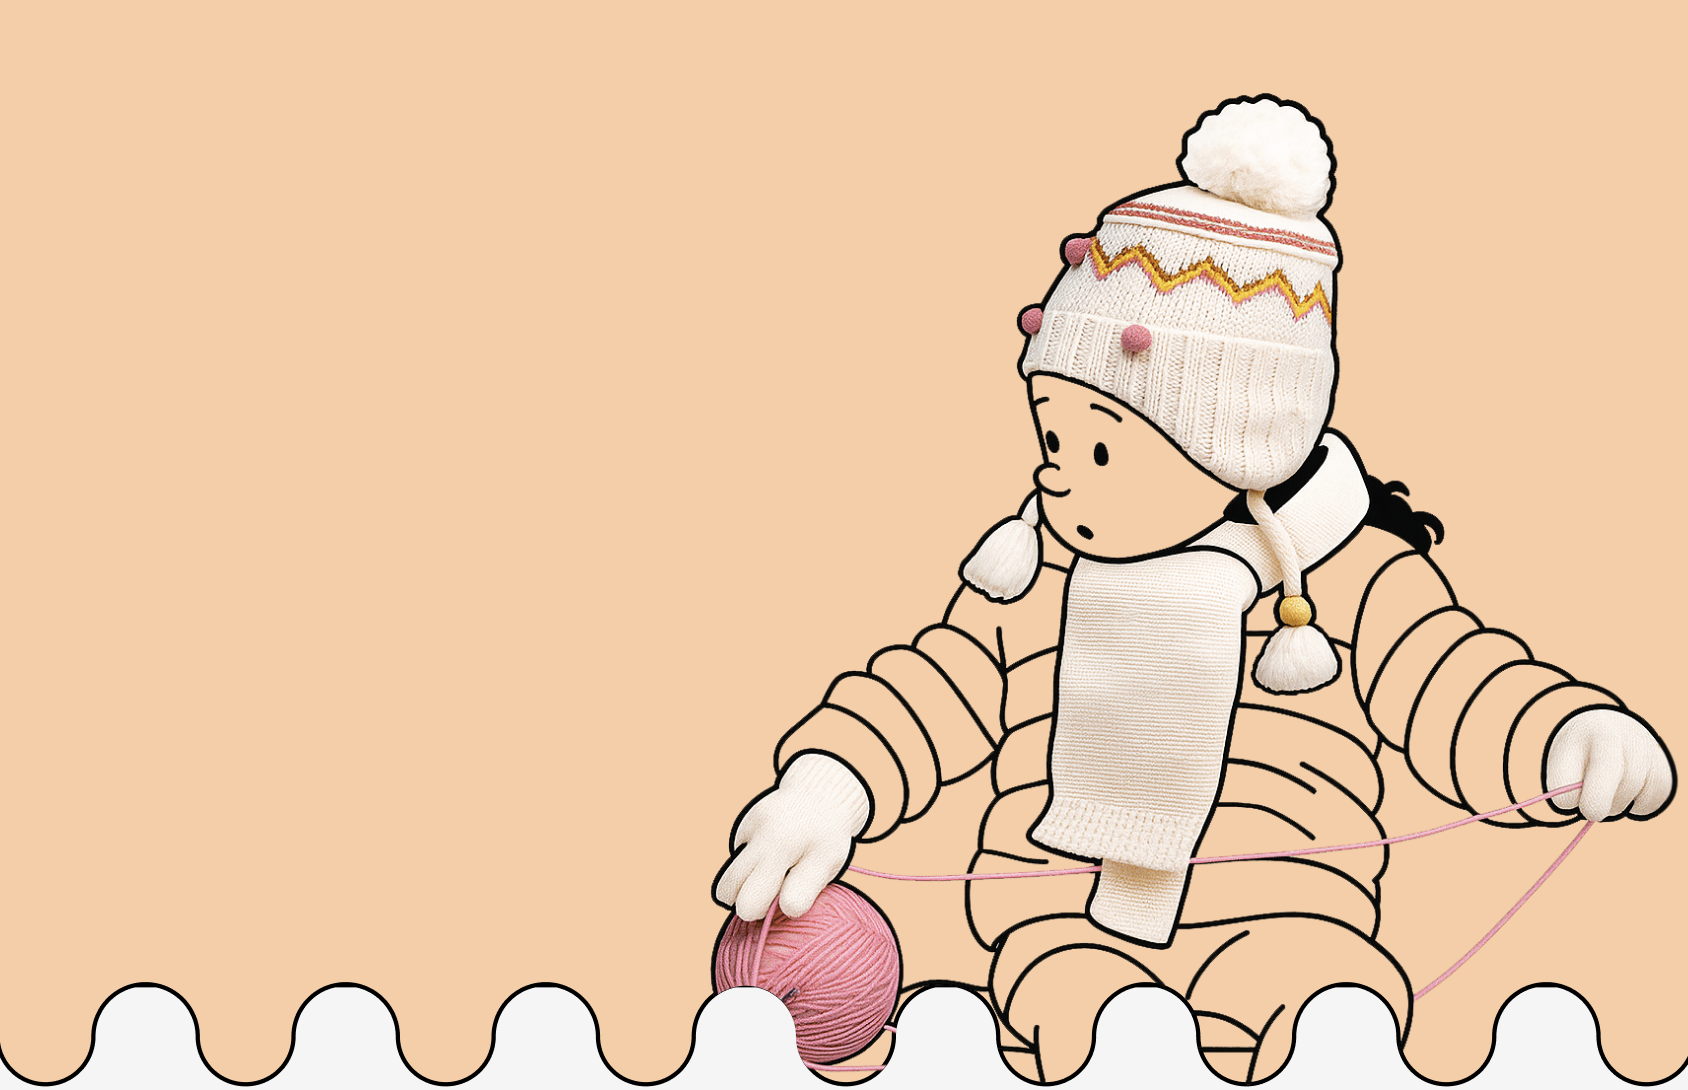
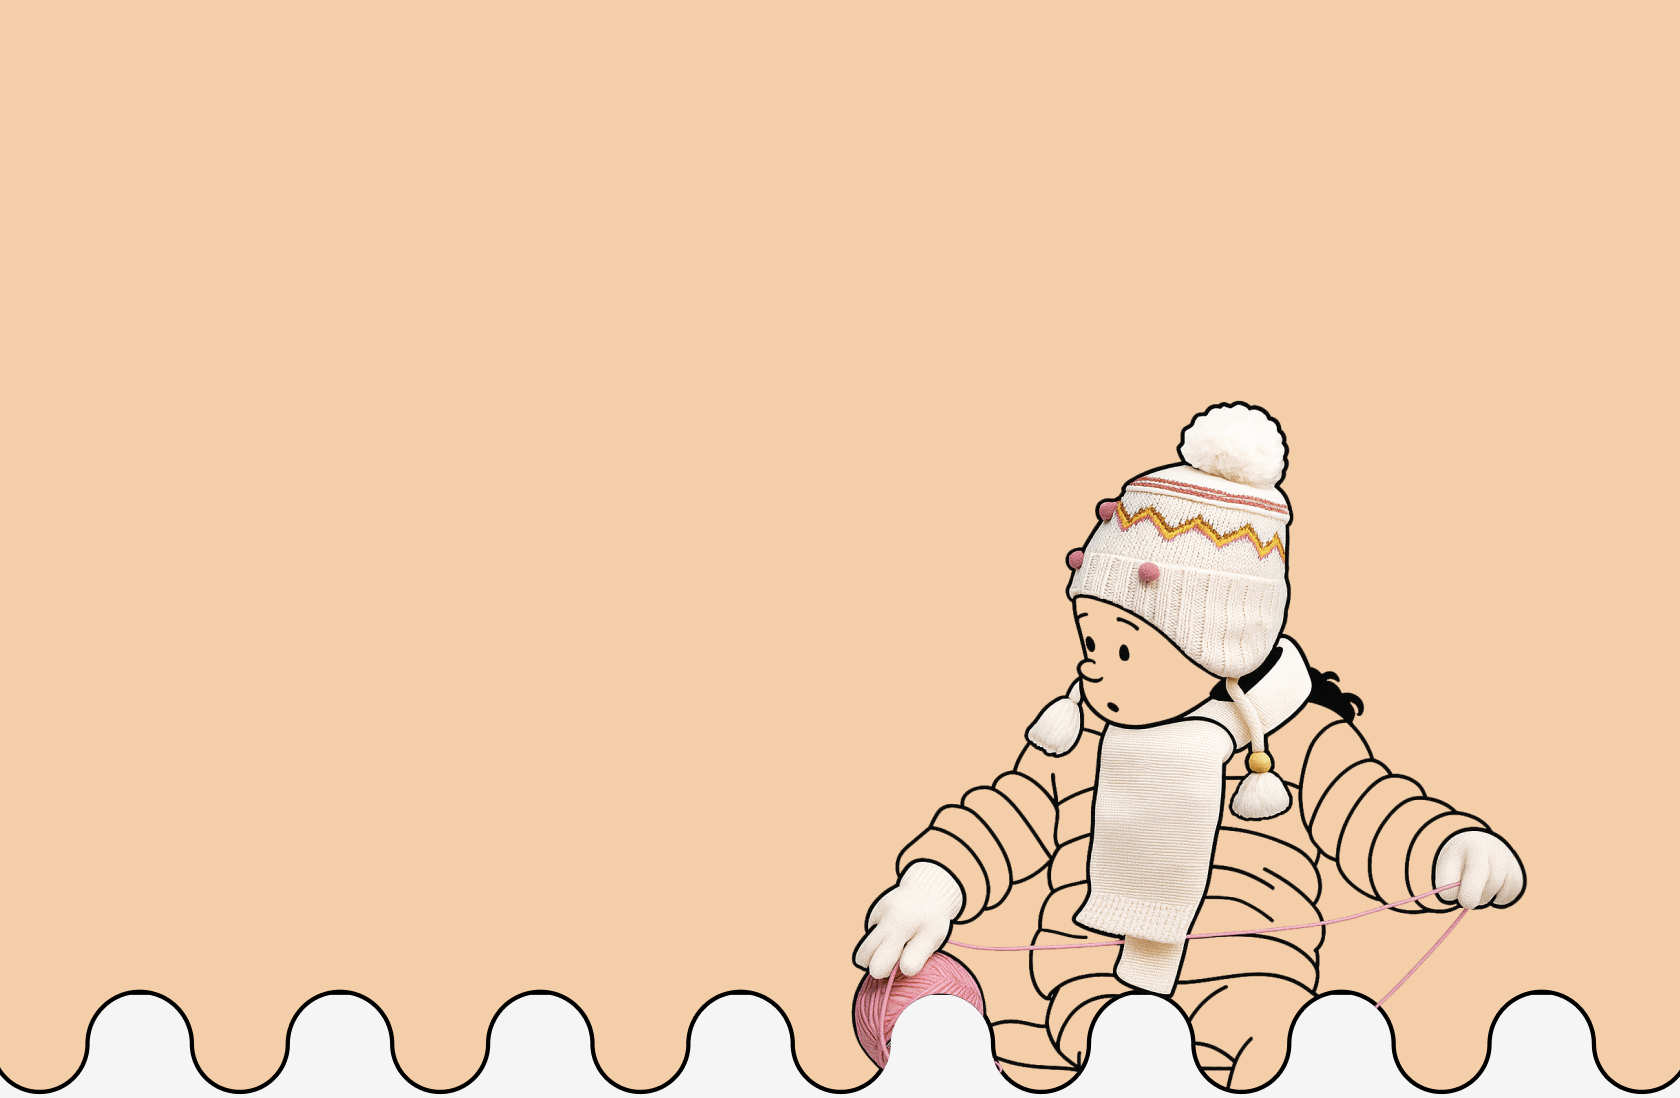
fix

diff --git a/src/styles/globals.scss b/src/styles/globals.scss
@@ -231,7 +231,7 @@ main {
 
   .sun-gif {
     width: 100%;
-    height: 45vh;
+    /* height: 45vh; */
     object-fit: cover;
 
     @media(min-width:768px) {
@@ -248,17 +248,18 @@ main {
     width: 100%;
     background-color: #FBCDA3;
     position: relative;
-    height: calc(55vh - 80px);
+    /* height: calc(55vh - 80px);
 
     @media(min-width:768px) {
       min-height: 350px;
-    }
+    } */
 
     .sea-gif {
       width: 100%;
       z-index: 4;
       height: 100%;
       object-fit: cover;
+      object-position: top;
     }
 
     .sea-bottom {
@@ -307,6 +308,8 @@ main {
 
       @media(min-width: 992px) {
         display: block;
+        height: 100vh;
+        min-height: unset;
       }
     }
 
@@ -339,6 +342,7 @@ main {
 
       @media(max-width: 992px) {
         padding: 0 20px;
+        max-width: unset;
         padding-bottom: 400px;
         gap: 30px;
         text-align: center;
@@ -502,6 +506,7 @@ main {
 
       @media(max-width: 992px) {
         padding: 0 20px;
+        max-width: unset;
         padding-bottom: 400px;
         gap: 30px;
         text-align: center;
@@ -884,7 +889,7 @@ main {
   background-position: bottom;
   padding: 100px 50px;
   min-height: 100vh;
-  padding-bottom: 150px;
+  padding-bottom: 170px;
   background-size: cover;
   background-repeat: no-repeat;
   display: flex;
@@ -894,7 +899,7 @@ main {
 
   @media(max-width: 992px) {
     padding: 100px 20px;
-    padding-bottom: 150px;
+    padding-bottom: 170px;
   }
 
   .image-w-text-container {
@@ -1027,7 +1032,7 @@ main {
     img {
       width: 100%;
       object-fit: contain;
-      max-width: 600px;
+      max-width: 500px;
       height: 100%;
 
       @media(max-width: 992px) {
@@ -1077,7 +1082,7 @@ main {
   background-position: bottom;
   min-height: 100vh;
   padding: 100px 50px;
-  padding-bottom: 150px;
+  padding-bottom: 170px;
   background-size: cover;
   background-repeat: no-repeat;
   background-color: #c9dbf4;
@@ -1087,7 +1092,7 @@ main {
 
   @media(max-width: 992px) {
     padding: 100px 20px;
-    padding-bottom: 150px;
+    padding-bottom: 170px;
     grid-template-columns: 1fr;
   }
 
@@ -1181,7 +1186,7 @@ main {
     img {
       width: 100%;
       height: 100%;
-      max-width: 600px;
+      max-width: 500px;
       object-fit: contain;
 
       @media(max-width: 992px) {
@@ -3142,7 +3147,7 @@ main {
 .what-we-produce-section {
   width: 100%;
   padding: 100px 50px;
-  padding-bottom: 150px;
+  padding-bottom: 170px;
   display: flex;
   min-height: 100vh;
   justify-content: center;
@@ -3154,7 +3159,7 @@ main {
 
   @media (max-width: 992px) {
     padding: 60px 20px;
-    padding-bottom: 150px;
+    padding-bottom: 170px;
   }
 
   .what-we-produce-container {
@@ -3902,16 +3907,13 @@ main {
 .about-us-title,
 .about-us-text,
 .about-us-map,
-.image-w-text-container,
 .hero-content,
 .image-w-text-content,
 .image-w-text-visual,
-.image-w-text-subtitle,
 .image-w-text-text-mobile,
 .wholesale-card,
 .what-we-produce-container,
 .child-safety-container,
-.image-w-text-button,
 .footer-inner,
 .footer-bottom,
 .register-inner,
@@ -3934,16 +3936,13 @@ main {
   .about-us-title,
   .about-us-text,
   .about-us-map,
-  .image-w-text-container,
   .hero-content,
   .image-w-text-content,
   .image-w-text-visual,
   .wholesale-card,
   .what-we-produce-container,
   .child-safety-container,
-  .image-w-text-subtitle,
   .image-w-text-text-mobile,
-  .image-w-text-button,
   .footer-inner,
   .footer-bottom,
   .register-inner,
@@ -3967,16 +3966,13 @@ main {
   .about-us-title,
   .about-us-text,
   .about-us-map,
-  .image-w-text-container,
   .hero-content,
   .image-w-text-content,
   .image-w-text-visual,
   .wholesale-card,
   .what-we-produce-container,
   .child-safety-container,
-  .image-w-text-subtitle,
   .image-w-text-text-mobile,
-  .image-w-text-button,
   .footer-inner,
   .footer-bottom,
   .register-inner,
@@ -4000,16 +3996,13 @@ main {
   .about-us-title,
   .about-us-text,
   .about-us-map,
-  .image-w-text-container,
   .hero-content,
   .image-w-text-content,
   .image-w-text-visual,
   .wholesale-card,
   .what-we-produce-container,
   .child-safety-container,
-  .image-w-text-subtitle,
   .image-w-text-text-mobile,
-  .image-w-text-button,
   .footer-inner,
   .footer-bottom,
   .register-inner,
@@ -4022,7 +4015,7 @@ main {
   .turkey-map-container,
   .story-hero-container,
   .wholesale-invite-container {
-    zoom: 1.2;
+    zoom: 1;
   }
 }
 

diff --git a/src/data/images.ts b/src/data/images.ts
@@ -11,7 +11,7 @@ import kartEtiket from "@/images/kart-etiket.png";
 import babyImage from "@/images/baby-contour.png";
 import turkeyMap from "@/images/turkey-map-2.gif";
 import smileGirl from "@/images/smile-girl.png";
-import wholesaleImage from "@/images/whole-sale.png";
+import wholesaleImage from "@/images/cocuk-png.gif";
 import turkeyMapGif from "@/images/turkey-map.gif";
 import whoWeAreBg from "@/images/who-we-are.png";
 import heroBackground from "@/images/hero-first-bg.png";
